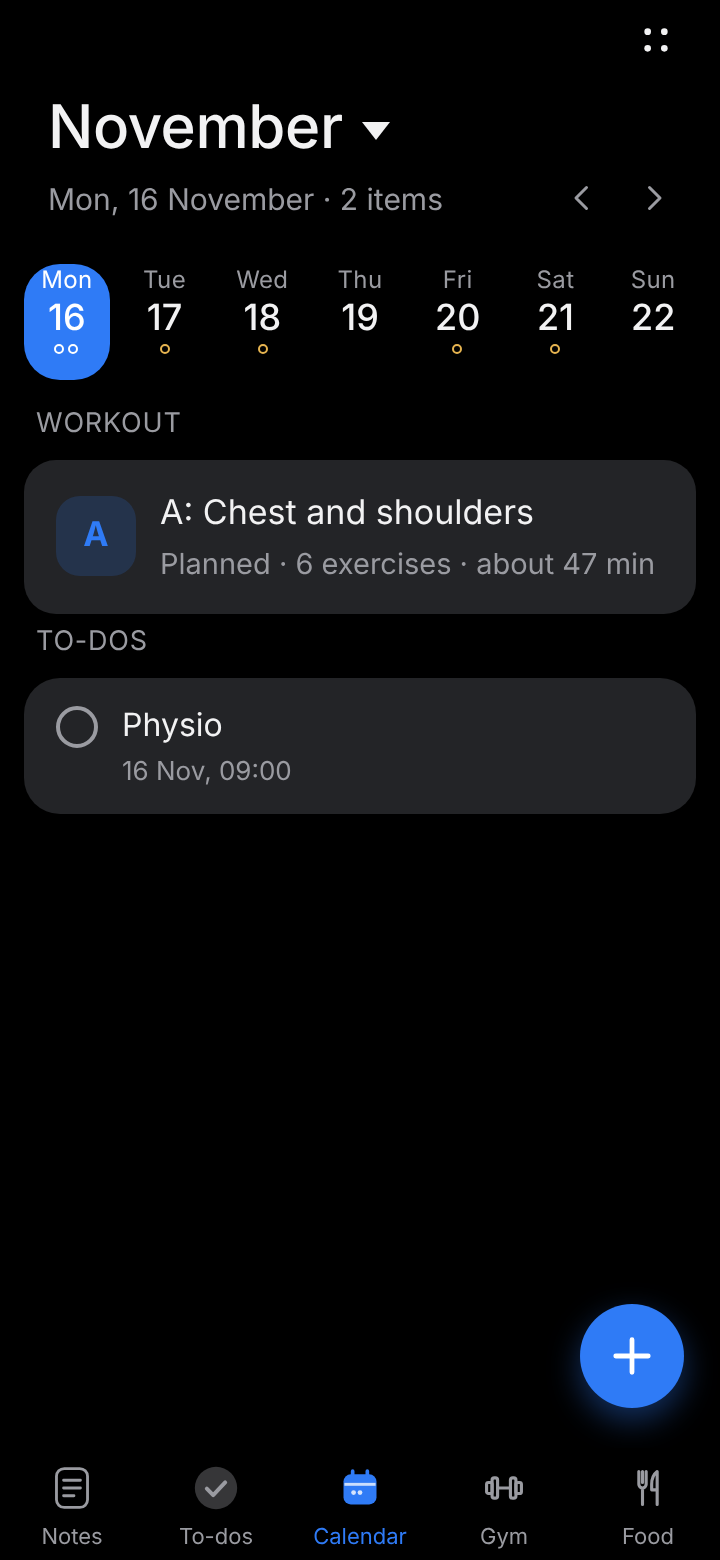
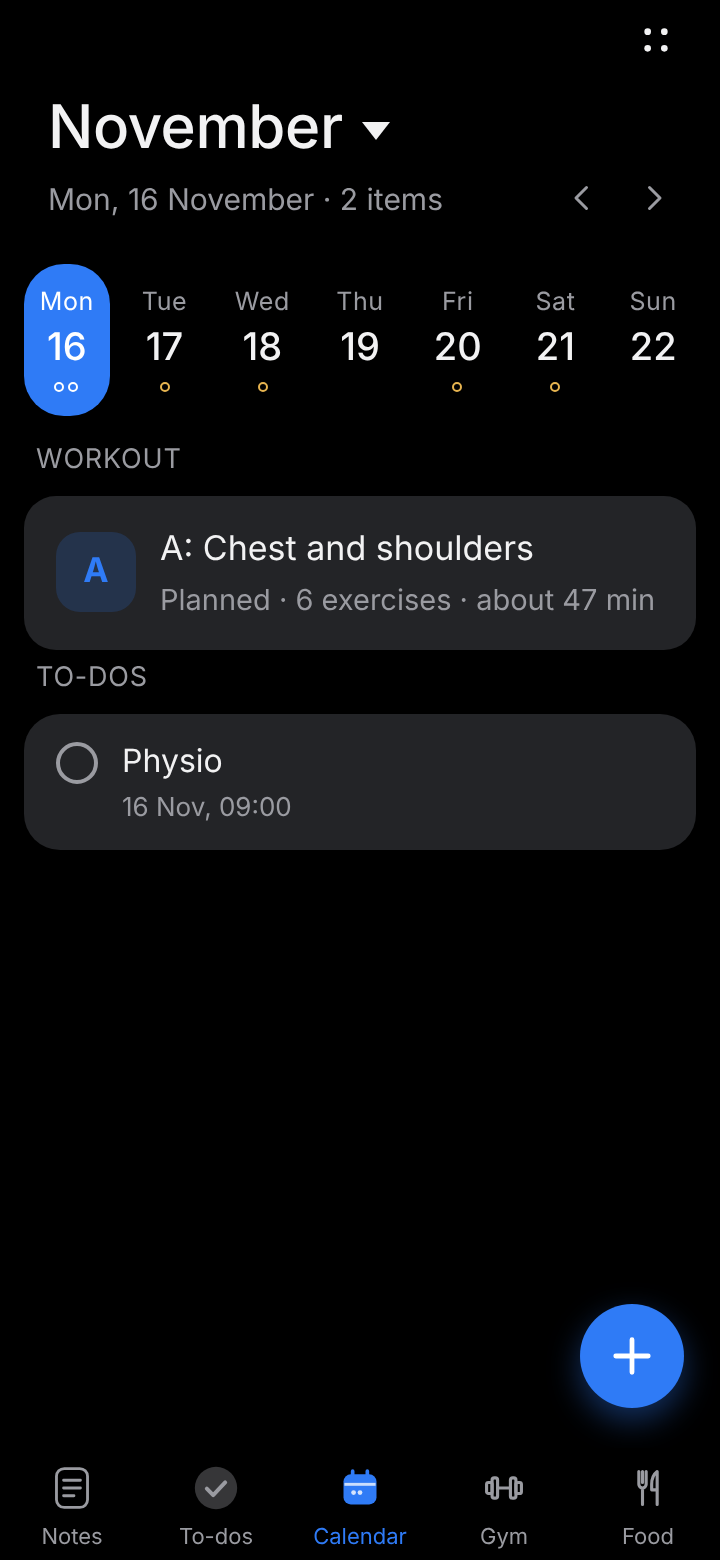
Calendar week row: taller, more spacious day pills
Claude-Session: https://claude.ai/code/session_01EDkSCMTKpD5ViqXpQZcMPg

diff --git a/index.html b/index.html
@@ -2,7 +2,7 @@
 <html lang="en">
 <head>
 <meta charset="utf-8">
-<meta name="build" content="20261109-080521">
+<meta name="build" content="20261109-083147">
 <meta name="viewport" content="width=device-width,initial-scale=1,viewport-fit=cover">
 <title>Taskist</title>
 <meta name="theme-color" content="#000000" id="mtc">
@@ -441,8 +441,9 @@ input:focus-visible,textarea:focus-visible,.edb:focus-visible,.edt:focus-visible
 .cday.tdy:not(.on) b{color:var(--ac)}
 .cnav{padding:0 4px;background:none;color:var(--mu);height:62px}
 .chips.cweek{overflow:hidden;flex-wrap:nowrap;margin:2px 0 14px;padding:0;gap:6px;touch-action:pan-y}
-.cweek .cday{flex:1 1 0;min-width:0;padding:0;height:58px;border-radius:18px;background:none;gap:2px}
-.cweek .cday span{font-size:12px;letter-spacing:.2px;white-space:nowrap}@media (max-width:340px){.cweek .cday span{font-size:11px;letter-spacing:0}.chips.cweek{gap:4px}}.cweek .cday b{font-size:18px}
+.cweek .cday{flex:1 1 0;min-width:0;padding:10px 0 9px;height:auto;min-height:76px;border-radius:20px;background:none;gap:5px;justify-content:center;line-height:1}
+.cweek .cday em{margin-top:1px}
+.cweek .cday span{font-size:12.5px;letter-spacing:.3px;white-space:nowrap;line-height:1.1}@media (max-width:340px){.cweek .cday span{font-size:11px;letter-spacing:0}.chips.cweek{gap:4px}}.cweek .cday b{font-size:19px;line-height:1.1}
 .cweek .cday.on{background:var(--ac)}
 .cweek .cday.tdy:not(.on){box-shadow:inset 0 0 0 1.5px var(--ac)}
 .cnt:has(.cwn){display:flex;align-items:center;white-space:nowrap}

diff --git a/sw.js b/sw.js
@@ -1,4 +1,4 @@
-const V='taskist-20261109-080521',FILES=['./','index.html','manifest.webmanifest','icon-192.png','icon-512.png'];
+const V='taskist-20261109-083147',FILES=['./','index.html','manifest.webmanifest','icon-192.png','icon-512.png'];
 self.addEventListener('install',e=>{e.waitUntil(caches.open(V).then(c=>c.addAll(FILES)).then(()=>self.skipWaiting()))});
 self.addEventListener('activate',e=>{e.waitUntil(caches.keys().then(k=>Promise.all(k.filter(x=>x!==V).map(x=>caches.delete(x)))).then(()=>self.clients.claim()))});
 self.addEventListener('fetch',e=>{const r=e.request;if(r.method!=='GET')return;const u=new URL(r.url);if(u.origin!==location.origin)return;
